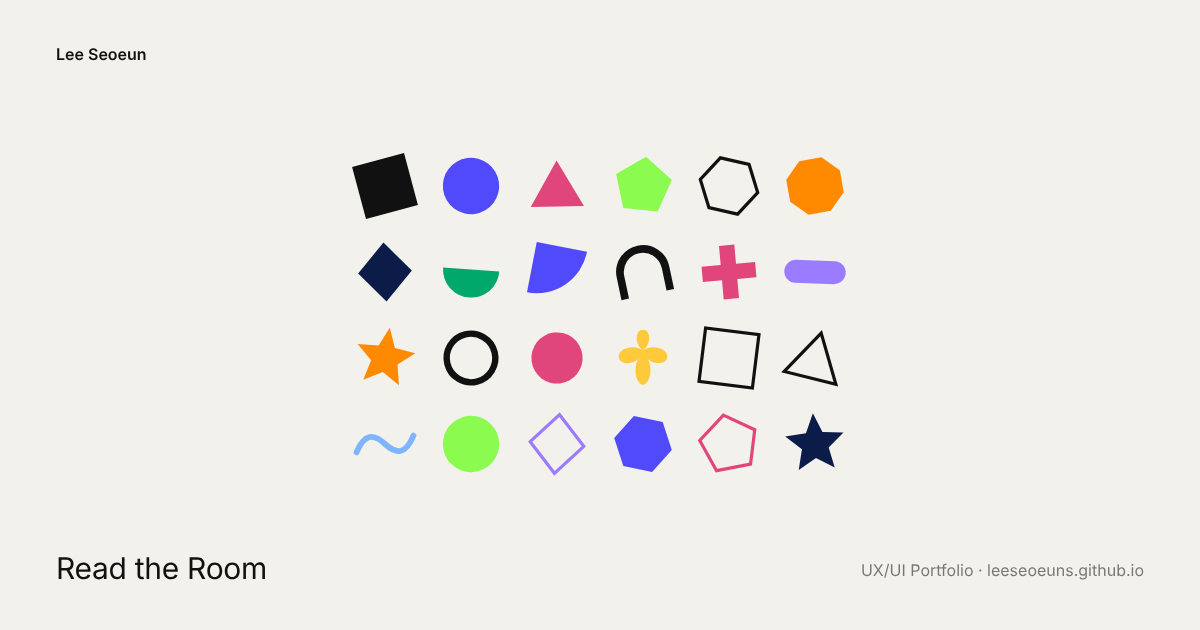
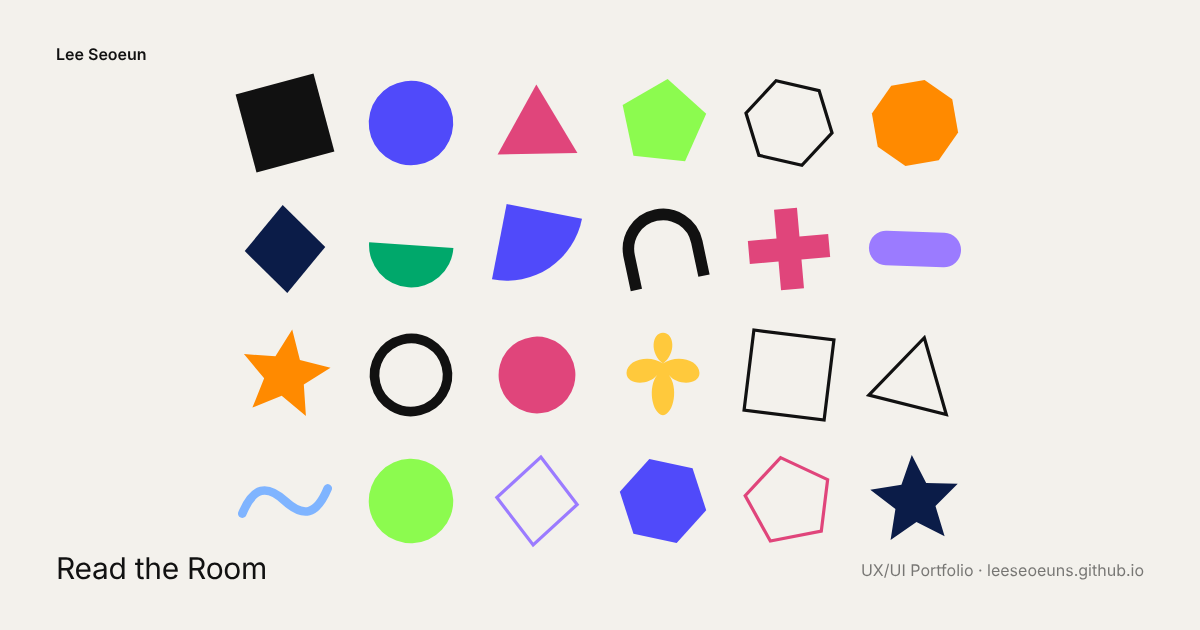
Bigger shapes in share preview; smaller language labels; Others: motion poster video, hover note on card
Claude-Session: https://claude.ai/code/session_01TWFMVD9D95cvRxEEK3SmBD

diff --git a/js/others.js b/js/others.js
@@ -6,7 +6,7 @@
 window.OTHERS = [
   { kind: 'package', info: ['바스리후레 패키지 리디자인', 'Package Design · 2026'], images: [], r: 1.25, n: 4 },
   { kind: 'surface', info: ['스카프 디자인', 'Surface Design'], images: [], r: 1, n: 3 },
-  { kind: 'graphic', info: ['포스터 · 리플렛', 'Graphic Design · 홍보 영상 포함'], images: [], r: 1.4, n: 3 },
+  { kind: 'graphic', info: ['포스터 · 리플렛', 'Graphic Design 1 · 모션 포스터 포함'], images: [], video: 'https://youtube.com/shorts/wv9fSH_8VlI', r: 1.4, n: 3 },
   { kind: 'motion', info: ['모션그래픽 01', 'Motion Graphic'], images: [], video: '', r: .5625, n: 1 },
   { kind: 'surface', info: ['넥타이 디자인', 'Surface Design'], images: [], r: 1.33, n: 2 },
   { kind: 'textile', info: ['Weaving · Handwoven', 'Textile · 6 pieces'], images: [], r: .75, n: 6 },
@@ -18,19 +18,21 @@ window.OTHERS = [
   const C = SHAPE_COLORS;
   const KIND = { package: ['square', C.ink], surface: ['circle', C.blue], graphic: ['pentagon', C.green], motion: ['triangle', C.pink], textile: ['star', C.orange] };
   const g = document.getElementById('gallery'), $ = id => document.getElementById(id);
+  const ytId = u => { const m = (u || '').match(/(?:youtu\.be\/|v=|shorts\/|embed\/)([\w-]{11})/); return m && m[1]; };
   const hasImg = w => w.images && w.images.length;
   const tint = (w, op) => `color-mix(in srgb, ${KIND[w.kind][1]} ${op}%, var(--paper))`;
 
   // preview layout on hover: 2–4 cells, picked by how many images and their orientation
-  function cells(w) { const n = hasImg(w) ? w.images.length : (w.n || 1); if (n < 2) return 0; if (n === 2) return 2; return w.r >= 1 ? 3 : 4; }
+  function cells(w) { if (!hasImg(w) && w.video) return 0; const n = hasImg(w) ? w.images.length : (w.n || 1); if (n < 2) return 0; if (n === 2) return 2; return w.r >= 1 ? 3 : 4; }
 
   OTHERS.forEach((w, i) => {
     const el = document.createElement('figure'); el.className = 'g-item'; el.tabIndex = 0; el.style.setProperty('--i', i);
     const k = cells(w);
-    const main = hasImg(w) ? `<img src="${w.images[0]}" alt="${w.info ? w.info[0] : ''}" loading="lazy">` : `<div class="ph" style="aspect-ratio:1/${w.r};background:${tint(w, 16)}"></div>`;
+    const yt = w.video && ytId(w.video);
+    const main = !hasImg(w) && yt ? `<img src="https://i.ytimg.com/vi/${yt}/hqdefault.jpg" alt="${w.info ? w.info[0] : ''}" loading="lazy" style="aspect-ratio:1/${w.r};object-fit:cover">` : hasImg(w) ? `<img src="${w.images[0]}" alt="${w.info ? w.info[0] : ''}" loading="lazy">` : `<div class="ph" style="aspect-ratio:1/${w.r};background:${tint(w, 16)}"></div>`;
     let prev = '';
     if (k) { prev = `<div class="g-prev c${k}">` + Array.from({ length: k }, (_, j) => hasImg(w) && w.images[j + 1] ? `<img src="${w.images[j + 1]}" alt="" loading="lazy">` : `<span style="background:${tint(w, 22 + j * 8)}"></span>`).join('') + '</div>'; }
-    const play = w.kind === 'motion' ? '<i class="g-play"></i>' : '';
+    const play = (w.kind === 'motion' || w.video) ? '<i class="g-play"></i>' : '';
     const info = w.info ? `<span class="g-info" tabindex="0" aria-label="${w.info[0]}">${SHAPE_SVG(KIND[w.kind][0], KIND[w.kind][1])}<span class="g-tip"><b>${w.info[0]}</b>${w.info[1] || ''}</span></span>` : '';
     el.innerHTML = main + prev + play + info;
     el.addEventListener('click', e => { if (e.target.closest('.g-info')) return; setTimeout(() => open(i), 90); });
@@ -41,10 +43,10 @@ window.OTHERS = [
 
   // viewer
   const V = $('viewer'), stage = $('vStage'), dots = $('vDots'), vinfo = $('vInfo'); let wi = 0, si = 0;
-  function slides(w) { if (w.video) return [{ video: w.video }]; if (hasImg(w)) return w.images.map(s => ({ img: s })); return Array.from({ length: w.n || 1 }, () => ({ ph: true })); }
+  function slides(w) { const S = []; if (w.video) S.push({ video: w.video }); if (hasImg(w)) w.images.forEach(s => S.push({ img: s })); else if (!w.video) for (let k = 0; k < (w.n || 1); k++) S.push({ ph: true }); return S; }
   function open(i) { wi = i; si = 0; V.hidden = false; requestAnimationFrame(() => V.classList.add('show')); document.body.style.overflow = 'hidden'; render(); }
   function close() { V.classList.remove('show'); document.body.style.overflow = ''; setTimeout(() => { V.hidden = true; stage.innerHTML = ''; }, 450); }
-  function embed(u) { const y = u.match(/(?:youtu\.be\/|v=)([\w-]{11})/); if (y) return `<iframe src="https://www.youtube.com/embed/${y[1]}?autoplay=1&rel=0" allow="autoplay; fullscreen" allowfullscreen></iframe>`;
+  function embed(u) { const y = ytId(u); if (y) return `<iframe class="${/shorts/.test(u) ? 'tall' : ''}" src="https://www.youtube.com/embed/${y}?autoplay=1&rel=0&playsinline=1" allow="autoplay; fullscreen; encrypted-media" allowfullscreen></iframe>`;
     const v = u.match(/vimeo\.com\/(\d+)/); if (v) return `<iframe src="https://player.vimeo.com/video/${v[1]}?autoplay=1" allow="autoplay; fullscreen" allowfullscreen></iframe>`; return `<video src="${u}" controls autoplay playsinline></video>`; }
   function render() {
     const w = OTHERS[wi], S = slides(w), s = S[si];

diff --git a/css/style.css b/css/style.css
@@ -365,7 +365,7 @@ img{display:block;max-width:100%}
 .pf-list li{display:flex;gap:16px;padding:3px 0;font-size:15px}
 .pf-list em{font-style:normal;font-family:var(--sans);color:var(--mute);width:40px;flex:none}
 .pf-lang{list-style:none;display:flex;flex-direction:column;gap:12px;max-width:420px}
-.pf-lang li{display:grid;grid-template-columns:80px 1fr;align-items:center;font-size:15px}
+.pf-lang li{display:grid;grid-template-columns:72px 1fr;align-items:center;font-size:12px;color:var(--mute)}
 .pf-lang i{display:block;height:4px;border-radius:2px;background:linear-gradient(var(--ink),var(--ink)) no-repeat 0 0/calc(var(--v) * 100%) 100%,rgba(17,17,17,.1)}
 .profile.show .pf-lang i{animation:bar 1.1s var(--ease) .6s both}
 @keyframes bar{from{background-size:0 100%,100% 100%}}
@@ -424,3 +424,9 @@ img{display:block;max-width:100%}
 @media (max-width:900px){.gallery{columns:2 150px;column-gap:10px;padding-top:90px}.g-item{margin-bottom:10px}.g-info .g-tip{white-space:normal;width:180px}.v-stage{width:92vw;height:70vh}.v-arrow{display:none}}
 .viewer[hidden]{display:none}
 @media (max-width:560px){.nav{padding:20px 16px;font-size:13px}.nav ul{gap:12px}}
+.v-stage iframe.tall{width:auto;height:100%;aspect-ratio:9/16}
+/* info: bigger hit area, and the note also rises softly when the card is hovered */
+.g-info{width:30px;height:30px;right:2px;bottom:2px;display:grid;place-items:center}
+.g-info>svg{width:14px;height:14px}
+.g-item:hover .g-tip{opacity:1;transform:none;transition-delay:.35s}
+.g-tip{right:6px;bottom:30px}

diff --git a/index.html b/index.html
@@ -10,10 +10,10 @@
 <meta property="og:title" content="Read the Room — Lee Seoeun">
 <meta property="og:description" content="이서은 UX/UI 포트폴리오 — 보고, 읽고, 시청하는 작업물">
 <meta property="og:url" content="https://leeseoeuns.github.io/">
-<meta property="og:image" content="https://leeseoeuns.github.io/assets/og.png?v=1">
+<meta property="og:image" content="https://leeseoeuns.github.io/assets/og.png?v=2">
 <meta property="og:image:width" content="1200"><meta property="og:image:height" content="630">
 <meta name="twitter:card" content="summary_large_image">
-<meta name="twitter:image" content="https://leeseoeuns.github.io/assets/og.png?v=1">
+<meta name="twitter:image" content="https://leeseoeuns.github.io/assets/og.png?v=2">
 <link rel="preconnect" href="https://fonts.googleapis.com"><link rel="preconnect" href="https://fonts.gstatic.com" crossorigin>
 <link href="https://fonts.googleapis.com/css2?family=Inter:wght@400;500;600&family=Noto+Sans+KR:wght@400;500;600&display=swap" rel="stylesheet">
 <link rel="stylesheet" href="css/style.css">

diff --git a/room.html b/room.html
@@ -9,10 +9,10 @@
 <meta property="og:title" content="Read the Room — Lee Seoeun">
 <meta property="og:description" content="이서은 UX/UI 포트폴리오 — 보고, 읽고, 시청하는 작업물">
 <meta property="og:url" content="https://leeseoeuns.github.io/">
-<meta property="og:image" content="https://leeseoeuns.github.io/assets/og.png?v=1">
+<meta property="og:image" content="https://leeseoeuns.github.io/assets/og.png?v=2">
 <meta property="og:image:width" content="1200"><meta property="og:image:height" content="630">
 <meta name="twitter:card" content="summary_large_image">
-<meta name="twitter:image" content="https://leeseoeuns.github.io/assets/og.png?v=1">
+<meta name="twitter:image" content="https://leeseoeuns.github.io/assets/og.png?v=2">
 <link rel="preconnect" href="https://fonts.googleapis.com"><link rel="preconnect" href="https://fonts.gstatic.com" crossorigin>
 <link href="https://fonts.googleapis.com/css2?family=Inter:wght@400;500;600&family=Noto+Sans+KR:wght@400;500;600&display=swap" rel="stylesheet">
 <link rel="stylesheet" href="css/style.css">

diff --git a/others.html b/others.html
@@ -6,7 +6,7 @@
 <title>Others — Lee Seoeun</title>
 <meta property="og:type" content="website">
 <meta property="og:title" content="Others — Lee Seoeun">
-<meta property="og:image" content="https://leeseoeuns.github.io/assets/og.png?v=1">
+<meta property="og:image" content="https://leeseoeuns.github.io/assets/og.png?v=2">
 <link rel="preconnect" href="https://fonts.googleapis.com"><link rel="preconnect" href="https://fonts.gstatic.com" crossorigin>
 <link href="https://fonts.googleapis.com/css2?family=Inter:wght@400;500;600&family=Noto+Sans+KR:wght@400;500;600&display=swap" rel="stylesheet">
 <link rel="stylesheet" href="css/style.css">
